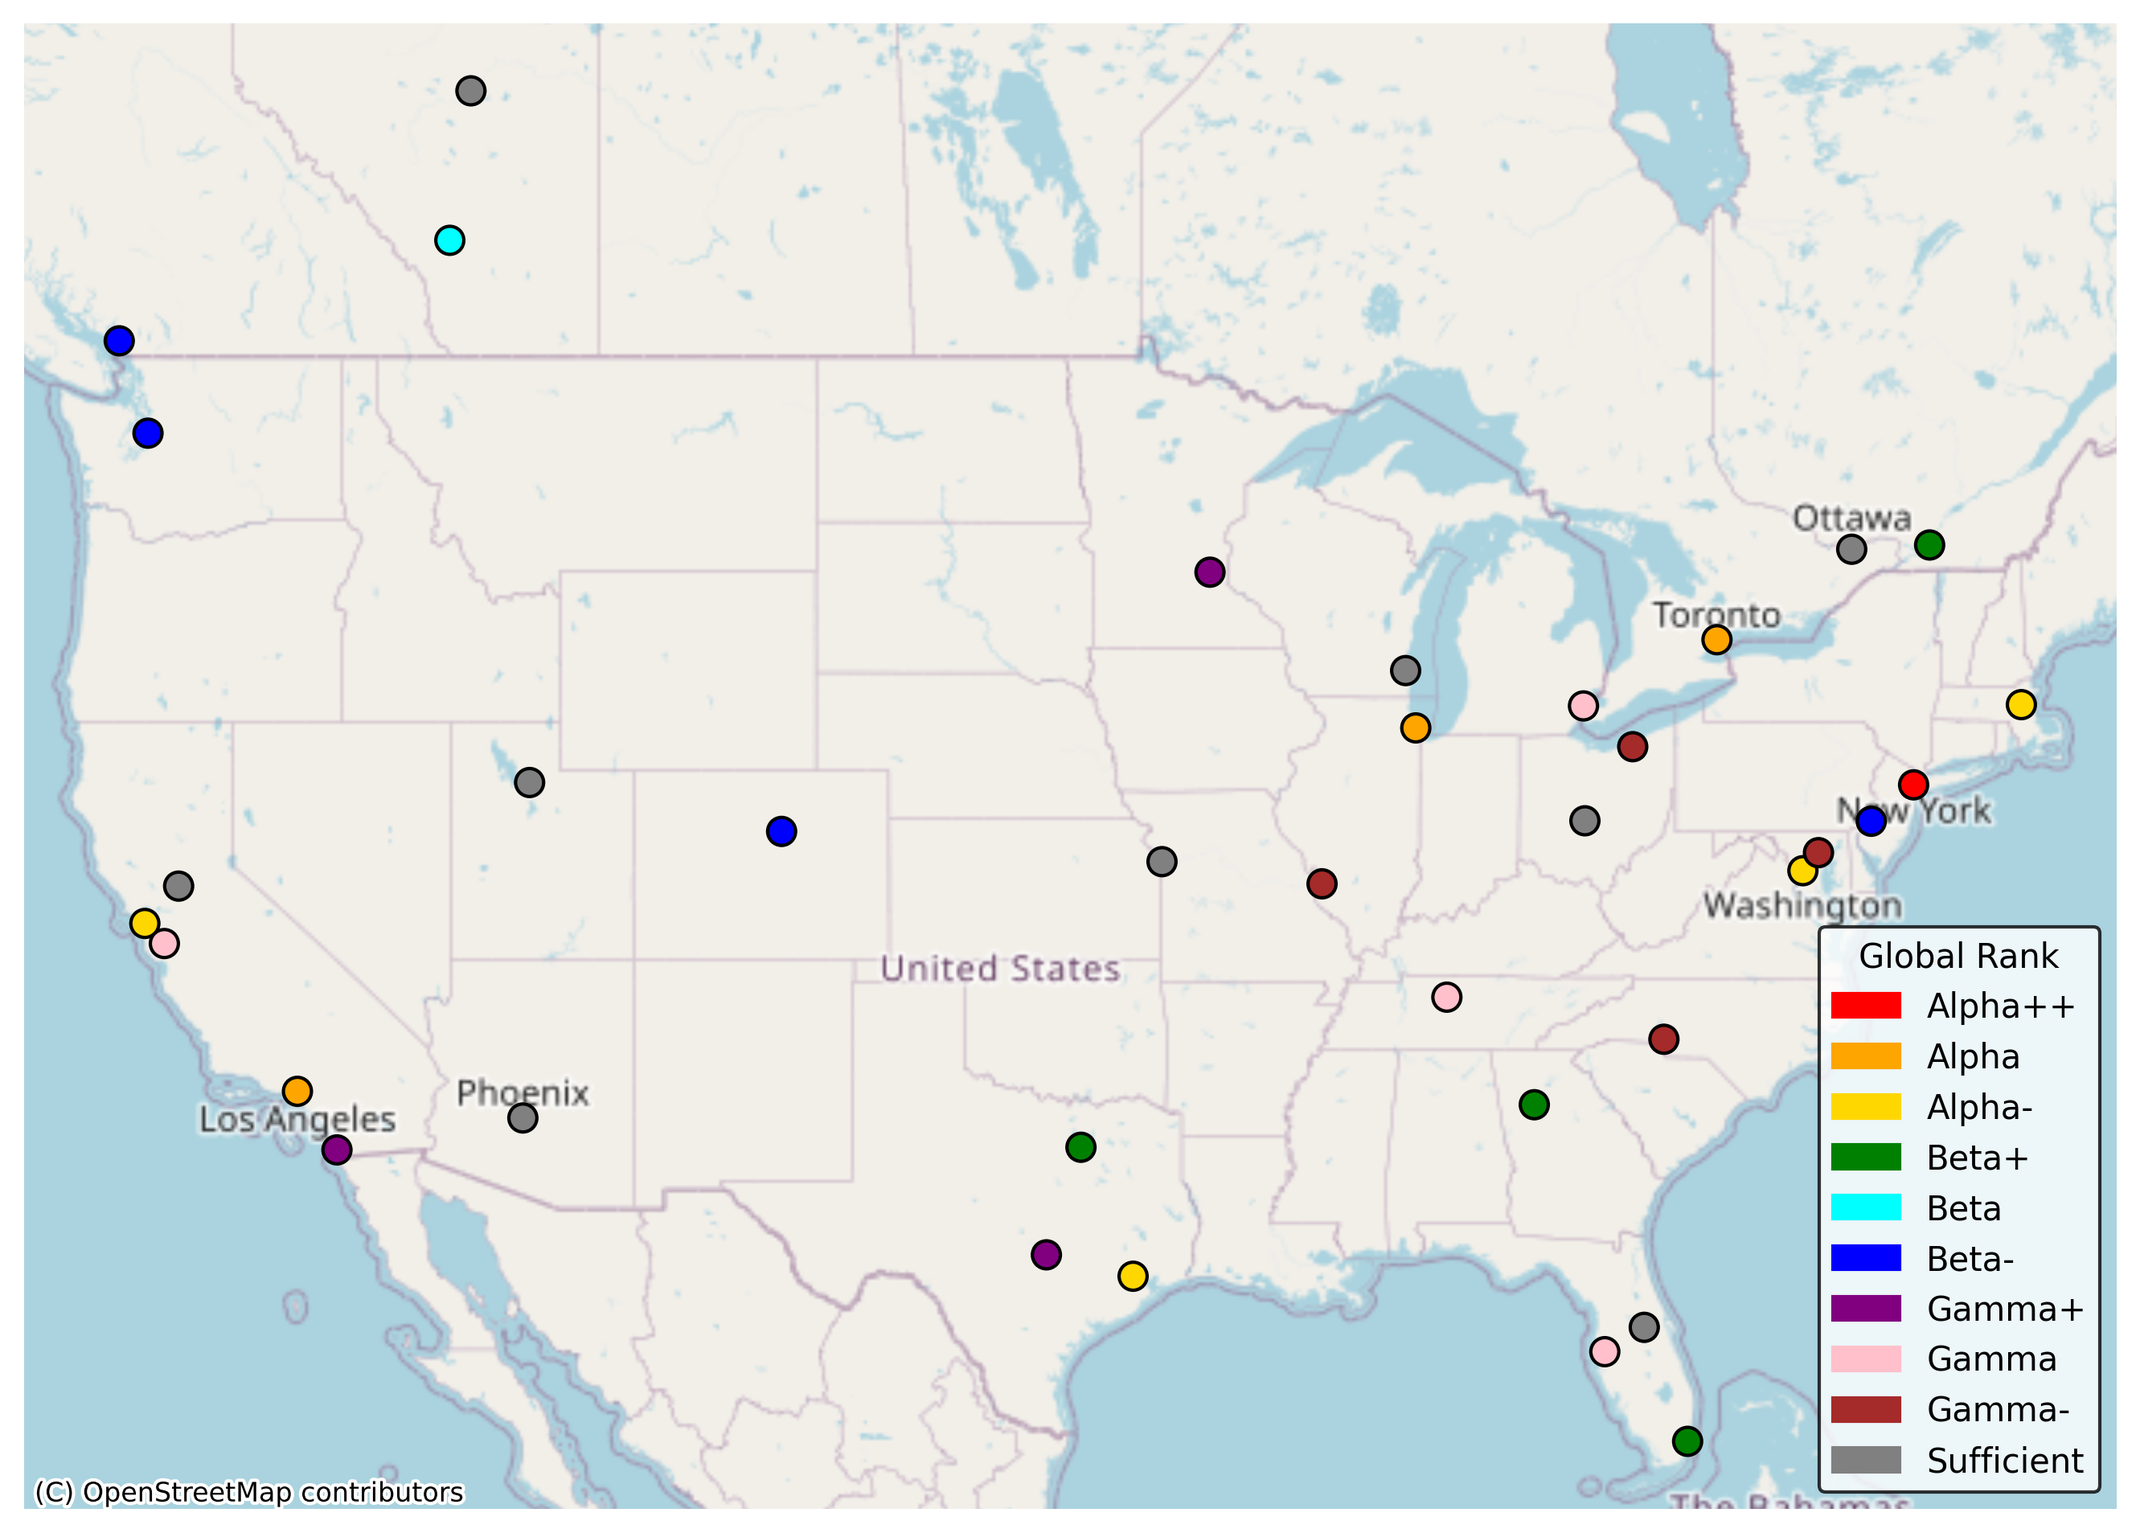
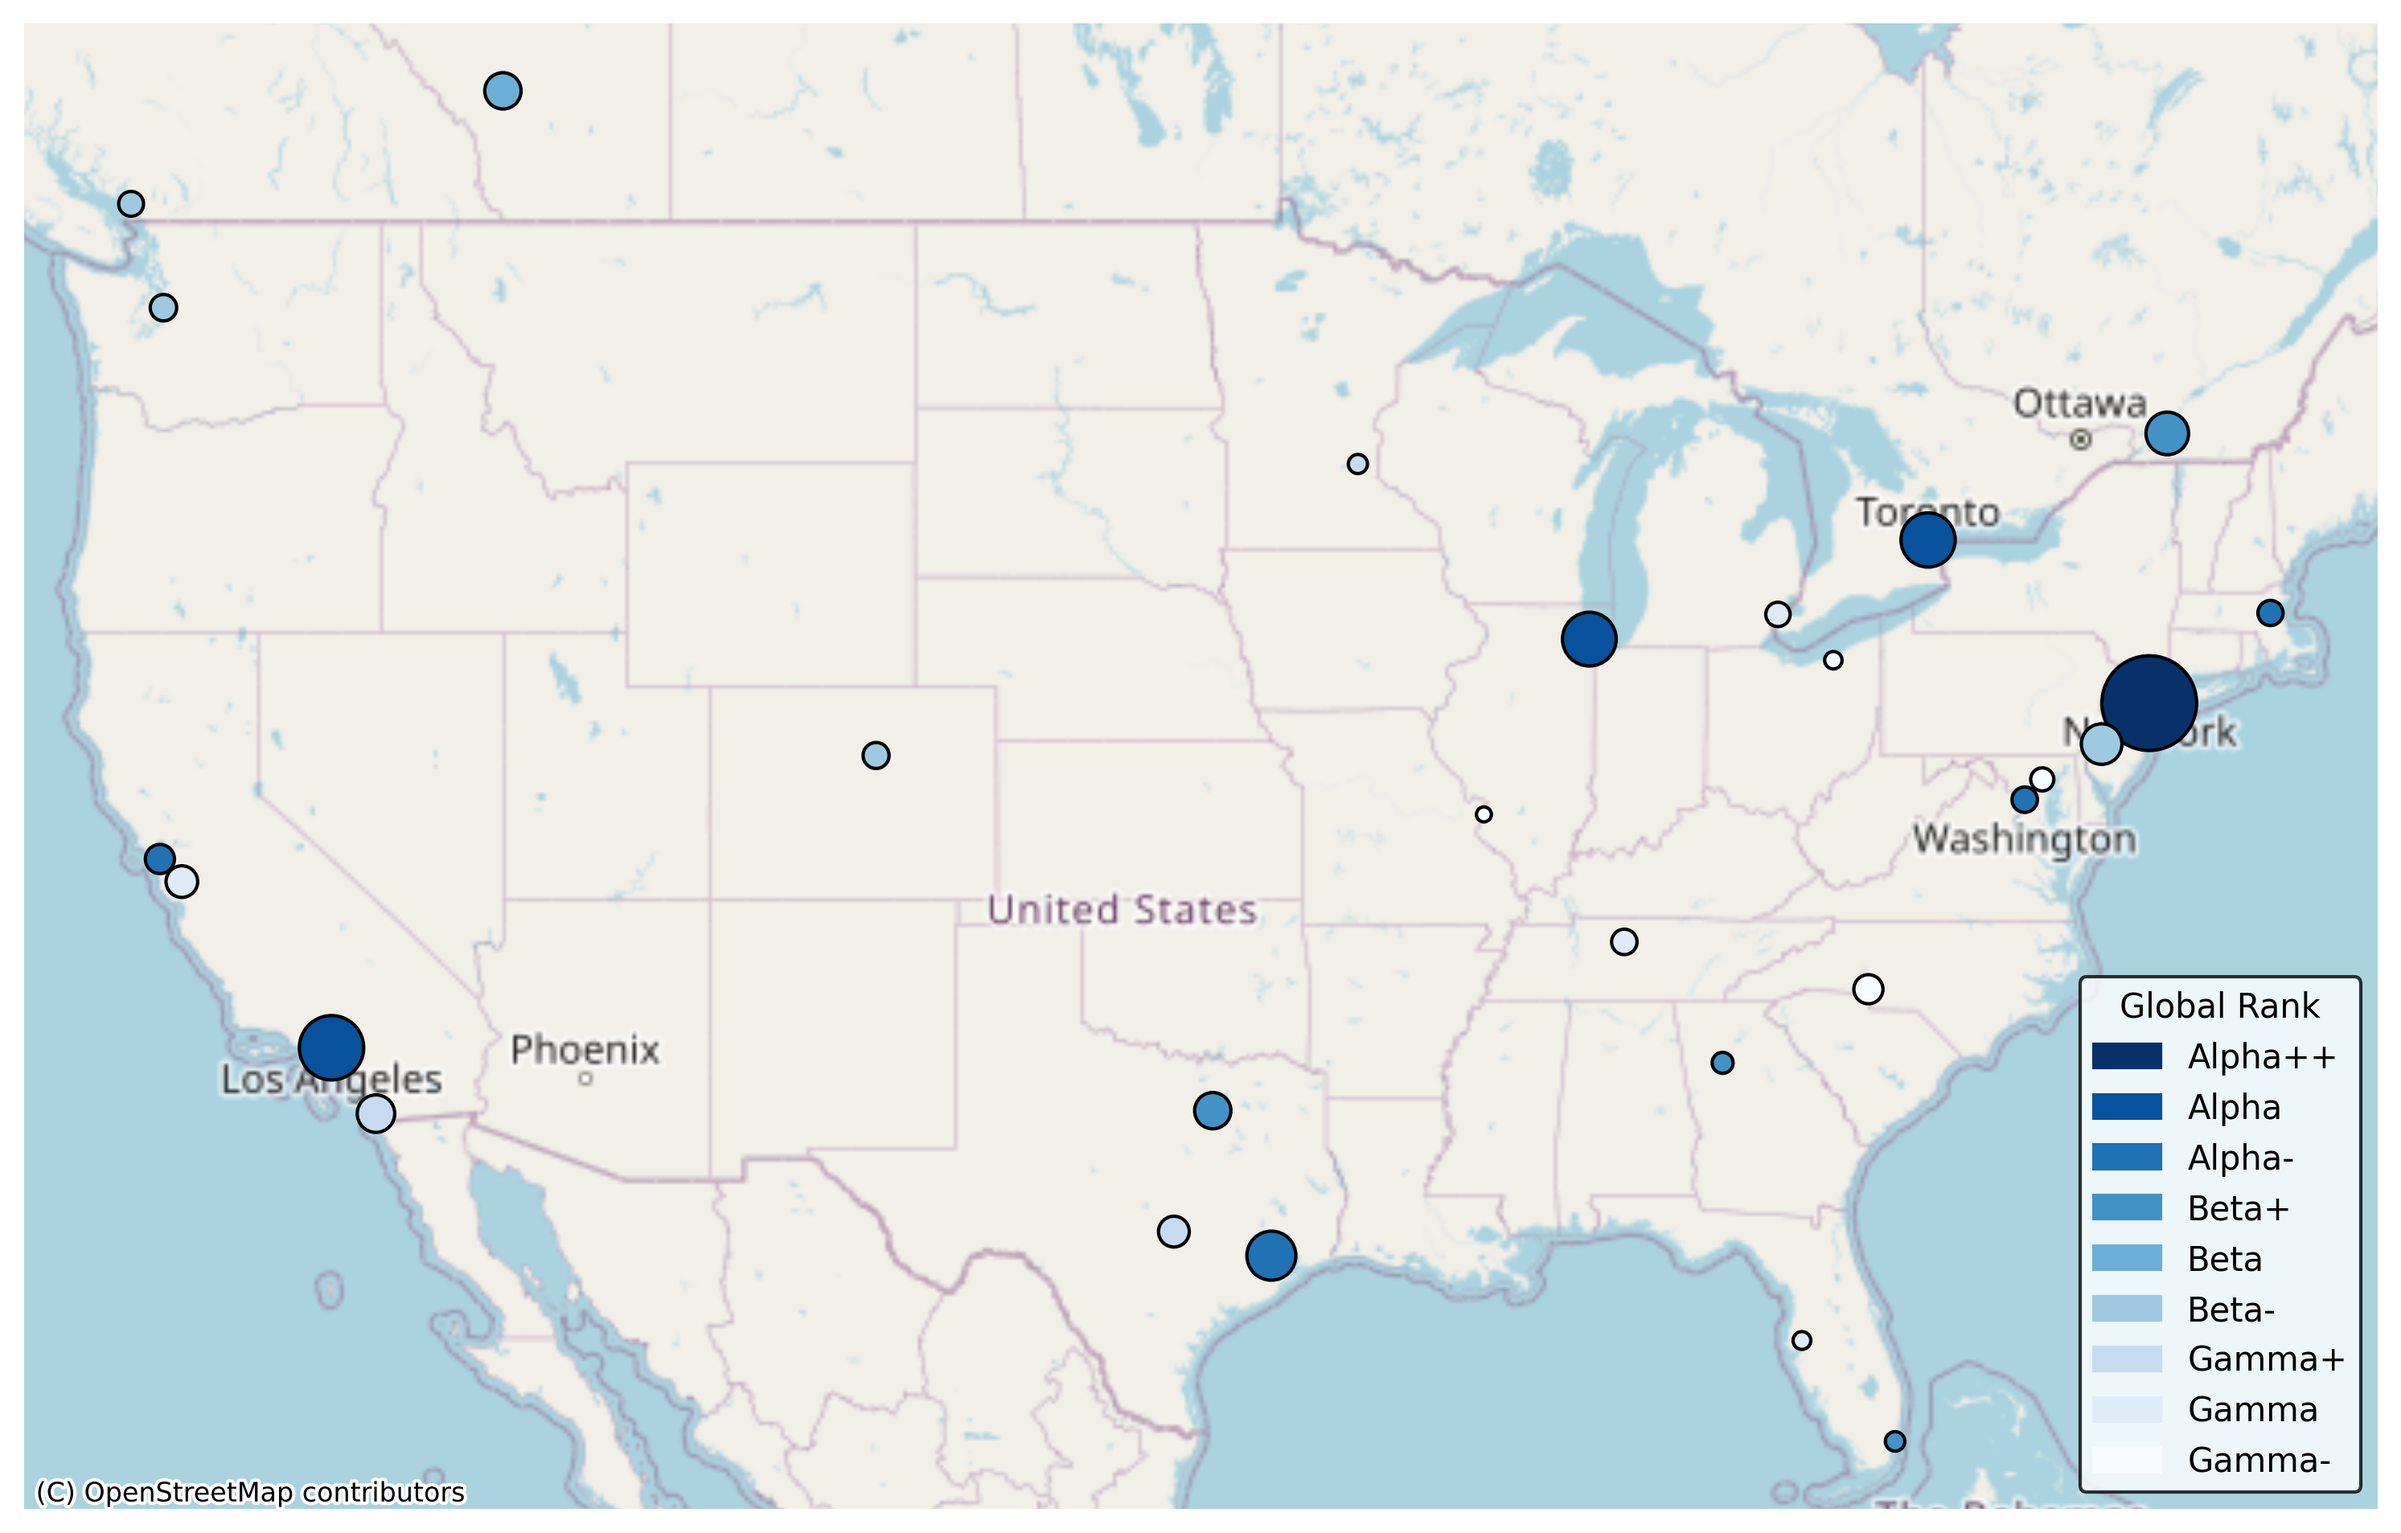
updating global city map info

diff --git a/global-cities-rank.py b/global-cities-rank.py
@@ -16,13 +16,12 @@ API_KEY = os.getenv("GOOGLE_API_KEY")
 matplotlib.use("Agg")
 
 df = pd.DataFrame({
-    'City': ['New York City','Los Angeles','Toronto','Chicago','San Francisco','Montreal','Boston','Washington DC','Dallas','Miami','Houston','Atlanta','Vancouver','Denver','Philadelphia','Seattle','Calgary','San Jose','Tampa','Minneapolis','San Diego','Detroit','Austin','Charlotte','Saint Louis','Phoenix','Orlando','Baltimore','Ottawa','Nashville','Cleveland','Kansas City','Milwaukee','Salt Lake City','Columbus','Sacramento','Edmonton'],
-    'State': ['NY','CA','ON','IL','CA','QC','MA','DC','TX','FL','TX','GA','BC','CO','PA','WA','AB','CA','FL','MN','CA','MI','TX','NC','MO','AZ','FL','MD','ON','TN','OH','MO','WI','UT','OH','CA','AB'],
-    'Country': ['United States','United States','Canada','United States','United States','Canada','United States','United States','United States','United States','United States','United States','Canada','United States','United States','United States','Canada','United States','United States','United States','United States','United States','United States','United States','United States','United States','United States','United States','Canada','United States','United States','United States','United States','United States','United States','United States','Canada'],
-    'Global_Rank': ['Alpha++','Alpha','Alpha','Alpha','Alpha-','Beta+','Alpha-','Alpha-','Beta+','Beta+','Alpha-','Beta+','Beta-','Beta-','Beta-','Beta-','Beta','Gamma','Gamma','Gamma+','Gamma+','Gamma','Gamma+','Gamma-','Gamma-','Sufficient','Sufficient','Gamma-','Sufficient','Gamma','Gamma-','Sufficient','Sufficient','Sufficient','Sufficient','Sufficient','Sufficient']
+   "City":["New York City","Los Angeles","Toronto","Chicago","San Francisco","Montreal","Boston","Washington DC","Dallas","Miami","Houston","Atlanta","Vancouver","Denver","Philadelphia","Seattle","Calgary","San Jose","Tampa","Minneapolis","San Diego","Detroit","Austin","Charlotte","Saint Louis","Baltimore","Nashville","Cleveland"],
+   "State":["NY","CA","ON","IL","CA","QC","MA","DC","TX","FL","TX","GA","BC","CO","PA","WA","AB","CA","FL","MN","CA","MI","TX","NC","MO","MD","TN","OH"],
+   "Country":["United States","United States","Canada","United States","United States","Canada","United States","United States","United States","United States","United States","United States","Canada","United States","United States","United States","Canada","United States","United States","United States","United States","United States","United States","United States","United States","United States","United States","United States"],
+   "Global_Rank":["Alpha++","Alpha","Alpha","Alpha","Alpha-","Beta+","Alpha-","Alpha-","Beta+","Beta+","Alpha-","Beta+","Beta-","Beta-","Beta-","Beta-","Beta","Gamma","Gamma","Gamma+","Gamma+","Gamma","Gamma+","Gamma-","Gamma-","Gamma-","Gamma","Gamma-"],
+   "Population":[8336817,3898747,2794356,2746388,873965,1762949,675647,689545,1304379,442241,2304580,498715,662248,715522,1603797,737015,1306784,1013240,384959,429954,1386932,639111,964177,874579,301578,585708,689447,372624]
 })
-
-
 
 geolocator = GoogleV3(api_key=API_KEY, timeout=10)
 
@@ -44,32 +43,39 @@ df['Global_Rank'] = df['Global_Rank'].str.strip()
 gdf = gpd.GeoDataFrame(df, geometry='coordinates', crs="EPSG:4326")
 gdf.head()
 print(gdf.head())
-
-# Convert your GeoDataFrame to Web Mercator (required for basemap tiles)
 gdf_web = gdf.to_crs(epsg=3857)
 
 fig, ax = plt.subplots(figsize=(14, 8))
 
 color_map = {
-    'Alpha++': 'red',
-    'Alpha': 'orange',
-    'Alpha-': 'gold',
-    'Beta+': 'green',
-    'Beta': 'cyan',
-    'Beta-': 'blue',
-    'Gamma+': 'purple',
-    'Gamma': 'pink',
-    'Gamma-': 'brown',
-    'Sufficient': 'gray'
+    'Alpha++': '#08306B',
+    'Alpha':   '#08519C',
+    'Alpha-':  '#2171B5',
+    'Beta+':   '#4292C6',
+    'Beta':    '#6BAED6',
+    'Beta-':   '#9ECAE1',
+    'Gamma+':  '#C6DBEF',
+    'Gamma':   '#DEEBF7',
+    'Gamma-':  '#F7FBFF'
 }
+
+# Normalize population to a reasonable size range
+min_size = 20
+max_size = 800
+
+pop_min = gdf_web['Population'].min()
+pop_max = gdf_web['Population'].max()
+
+gdf_web['marker_size'] = (
+    (gdf_web['Population'] - pop_min) / (pop_max - pop_min)
+) * (max_size - min_size) + min_size
 
 gdf_web.plot(
     ax=ax,
     c=gdf_web['Global_Rank'].map(color_map),
-    markersize=70,
+    markersize=gdf_web['marker_size'],
     edgecolor='black',
-    linewidth=1,
-    legend=True
+    linewidth=1
 )
 
 print(gdf_web['Global_Rank'].dtype)
